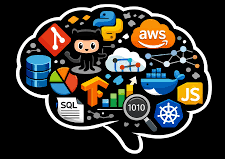
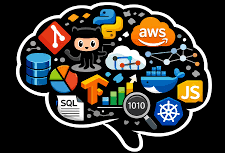
fix: changed dsek.png to fit

diff --git a/README.md b/README.md
@@ -60,7 +60,7 @@ Hi, I'm <b>Anjali</b> — a software developer and full-stack engineer who ships
 
 ## GitHub Stack :)
 
-<img align="right" width="45%" src="images/desk.png" alt="stack"/>
+<img align="right" width="40%" src="images/desk.png" alt="stack"/>
 
 <div>
 
